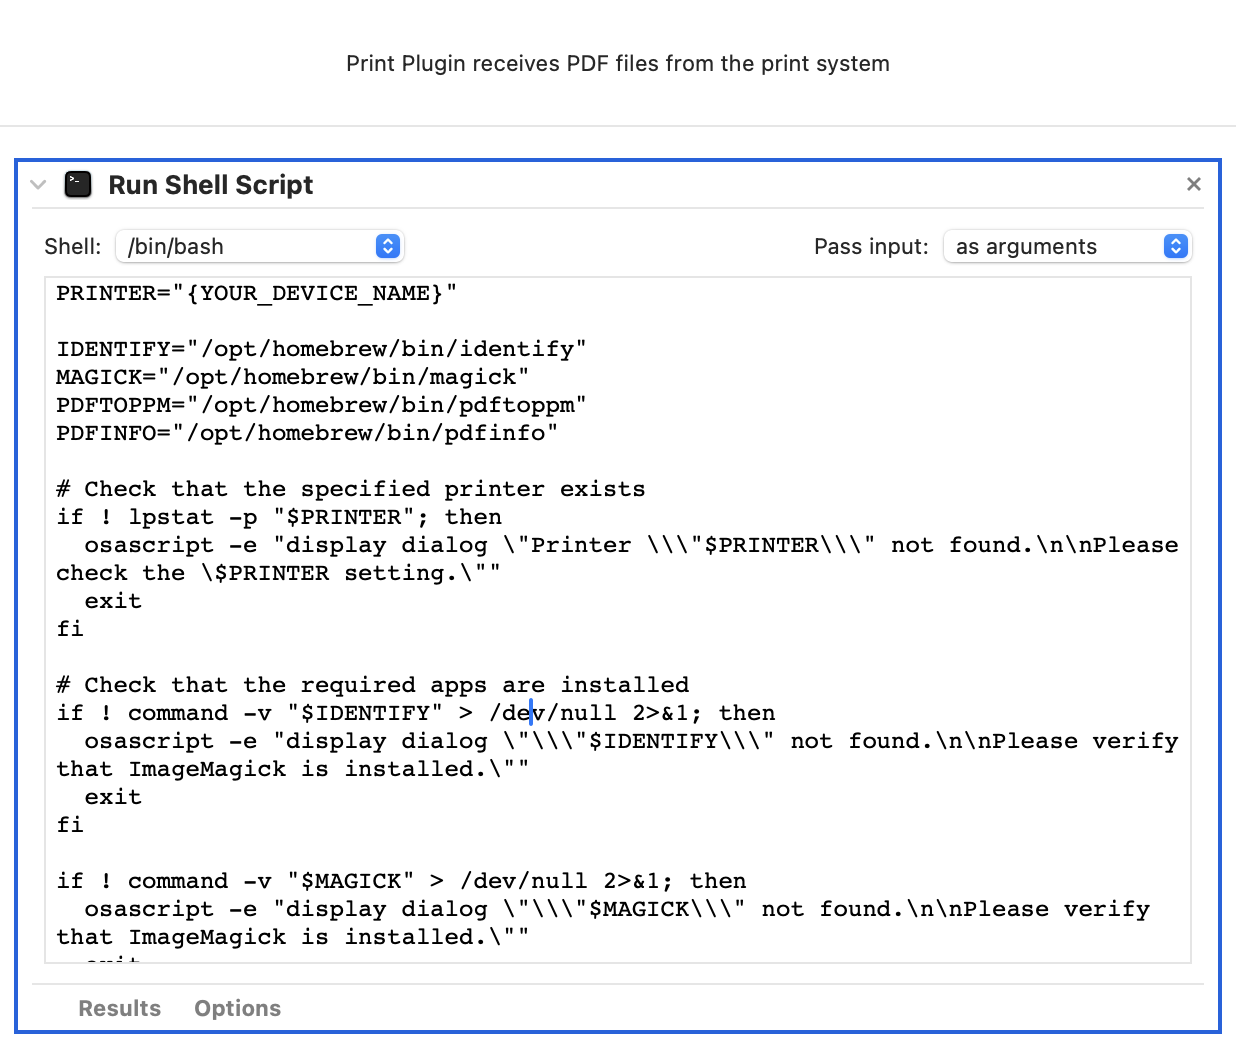
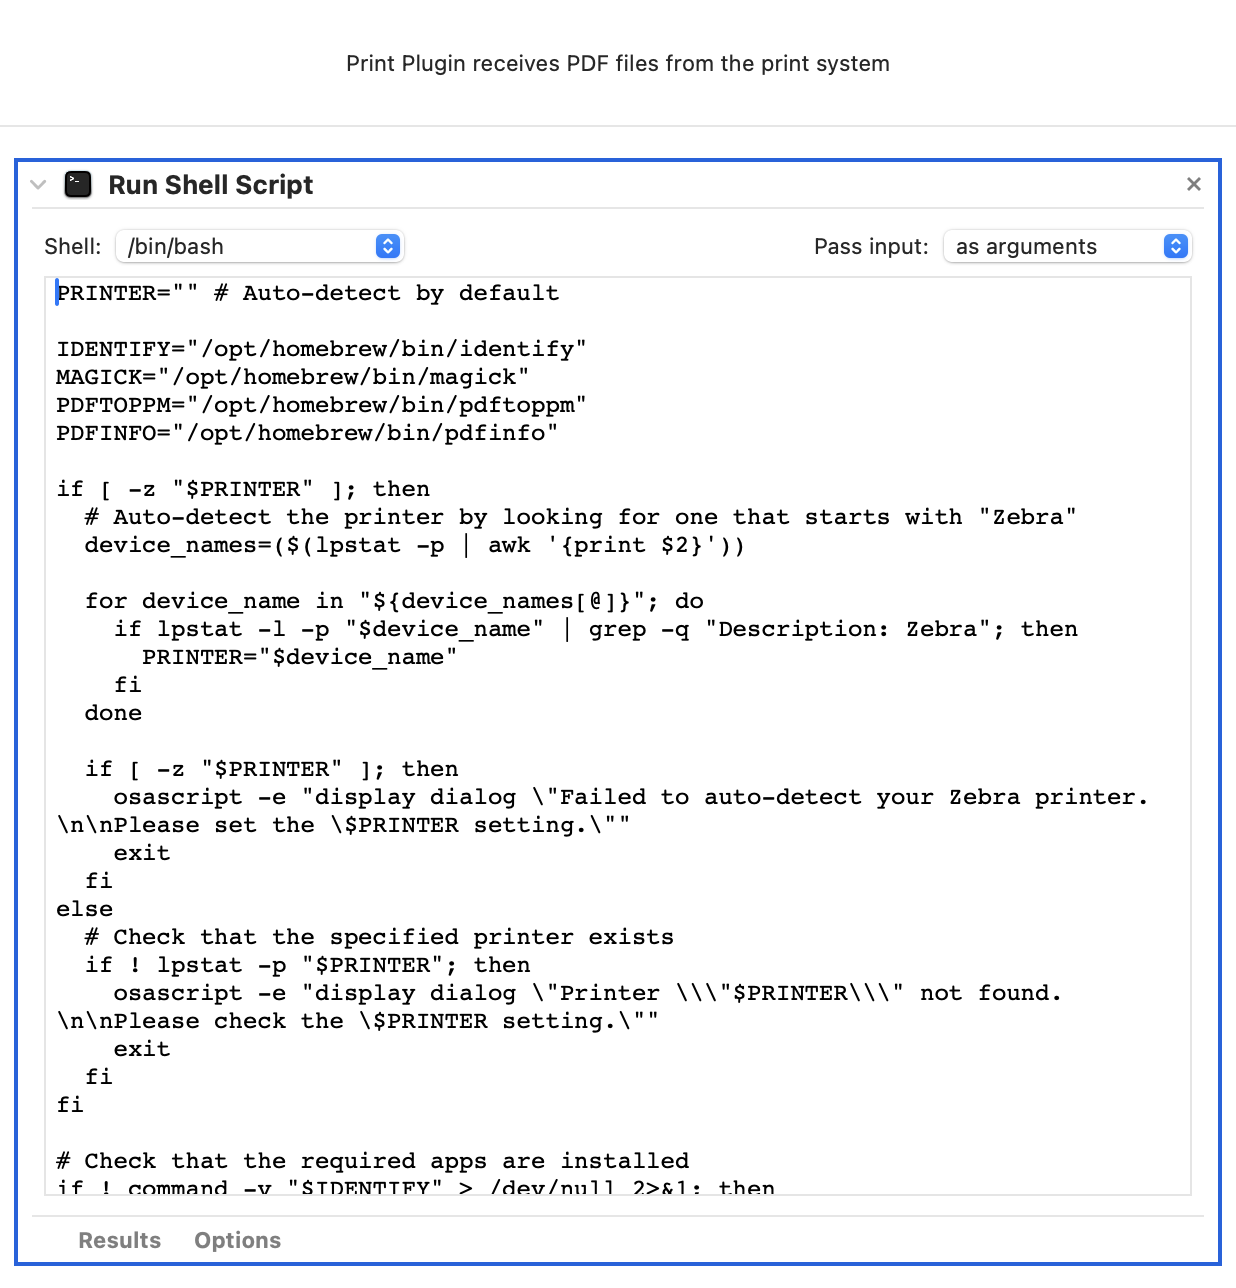
Added support for auto-detecting the Zebra printer and added troubleshooting steps.

diff --git a/README.md b/README.md
@@ -26,26 +26,7 @@ In theory, this should work for other Zebra thermal printers, but I have only te
 
   ![Browse in Finder](images/install-finder-browse.png)
 
-3. Drag `Print Label.workflow` (extension may be hidden) into the `PDF Services` folder.
-4. Get the Device Name for your Zebra printer.
-
-  - Go to System Settings > Printers & Scanners
-  - Click on your Zebra printer.
-
-  ![Zebra printer dialog](images/install-system-settings-printer.png)
-  
-  - Click "Options & Supplies"
-  - Copy the "Device Name" value
-
-  ![Zebra printer device name](images/install-system-settings-printer-options.png)
-
-5. Go back to the `PDF Services` folder.
-6. Double-click on `Print Label.workflow` to open it in Automator.
-7. At the top, replace `{YOUR_DEVICE_NAME}` with the device name you just copied.
-
-  ![Paste device name](images/install-automator-device-name.png)
-
-8. Save the workflow. You are all set!
+3. Drag `Print Label.workflow` (extension may be hidden) into the `PDF Services` folder. You are all set!
 
 ## Usage
 
@@ -57,3 +38,93 @@ In theory, this should work for other Zebra thermal printers, but I have only te
   ![Print dialog](images/usage-print-dialog.png)
 6. From the dropdown on the bottom-left, click "Print Label".
   ![Print dialog menu](images/usage-print-dialog-menu.png)
+
+## Troubleshooting
+
+### Error: "Failed to auto-detect your Zebra printer."
+
+The workflow is trying to find a printer name that starts with "Zebra" and doesn't find it. There could be two reasons for this:
+
+1. The driver for your Zebra printer is not installed. See: [Install CUPS Driver for Zebra Printer in Mac OS](https://supportcommunity.zebra.com/s/article/Install-CUPS-driver-for-Zebra-Printer-in-Mac-OS)
+2. The name of your Zebra printer does not start with "Zebra". You have two options here:
+
+  a. Rename your Zebra printer so that it starts with "Zebra". See [Renaming your printer](TODO).
+  
+  b. Set the `PRINTER` value in the workflow with your Zebra printer's device name. See [Editing the `PRINTER` value](TODO).
+
+### The workflow prints to the wrong Zebra printer
+
+The workflow is trying to find a printer name that starts with "Zebra" and it is picking the wrong one because there are multiple. You have a few options in this case:
+
+a. Rename the other printer so that the one you want to print to is the only one with a name that starts with "Zebra". See [Renaming your printer](TODO).
+
+b. If only one device you want to print to, set the `PRINTER` value in the workflow with that Zebra printer's device name. See [Editing the `PRINTER` value](TODO).
+
+c. If you want to print to multiple Zebra printers, make a copy of `Print Label.workflow`, one for each printer, and set the `PRINTER` value for each copy with the corresponding Zebra printer's device name. Make sure that you set the workflow to an appropriate filename so that you know which workflow corresponds to which printer. See [Editing the `PRINTER` value](TODO).
+
+### Error: "Printer "{YOUR-PRINTER-NAME}" not found."
+
+The `PRINTER` value at the top of the workflow was not set to the correct printer device name. Make sure that you have the correct device name value. See [Getting the device name for your printer](TODO) and [Editing the `PRINTER` value](TODO).
+
+### Error: "Failed to determine the printer DPI!"
+
+The workflow tried to read the printer options and didn't find a matching "Resolution" option. If this happens, I would appreciate feedback. Drop a comment in the [Discussions](https://github.com/john-stephens/zebra-mac-label-automator/discussions) section with the output of `lpstat -p | awk '{print $2}' | xargs -t -n1 -I {} lpoptions -p {} -l`.
+
+### Error: "Failed to determine the printer media!"
+
+The workflow tried to determine the appropriate media value based on the page size, but couldn't find a match for your printer. If this happens, I would appreciate feedback. Drop a comment in the [Discussions](https://github.com/john-stephens/zebra-mac-label-automator/discussions) section with the output of `lpstat -p | awk '{print $2}' | xargs -t -n1 -I {} lpoptions -p {} -l
+`.
+
+### Error: ""identify" not found" or ""magick" not found"
+
+This will happen if `identify` or `magick` are not found. This could either be because ImageMagick is not installed or was not installed with [Homebrew](https://brew.sh). You have two options in this case:
+
+a. Install ImageMagick with [Homebrew](https://brew.sh).
+
+b. Correct the path for `identify` or `magick` at the top of `Print Label.workflow`.
+
+### Error: ""pdftoppm" not found" or ""pdfinfo" not found"
+
+This will happen if `pdftoppm` or `pdfinfo` are not found. This could either be because Poppler is not installed or was not installed with [Homebrew](https://brew.sh). You have two options in this case:
+
+a. Install Poppler with [Homebrew](https://brew.sh).
+
+b. Correct the path for `pdftoppm` or `pdfinfo` at the top of `Print Label.workflow`.
+
+## Reference
+
+### Getting the device name for your printer
+
+1. Go to System Settings > Printers & Scanners
+2. Click on your Zebra printer.
+
+  ![Zebra printer dialog](images/reference-system-settings-printer.png)
+  
+3. Click "Options & Supplies"
+4. Copy the "Device Name" value
+
+  ![Zebra printer device name](images/reference-system-settings-printer-options.png)
+  
+### Editing the `PRINTER` value
+
+1. Browse to the `PDF Services` folder.
+
+  - Click on the Finder app
+  - Click Go > Go to Folder... (⇧ ⌘ G)
+  - Enter "~/Library/PDF Services" and press Enter
+
+2. Double-click on `Print Label.workflow` (extension may be hidden) to open it in Automator.
+4. At the top, fill in your device name as the value for `PRINTER`. See [Getting the device name for your printer](TODO).
+
+  ![Paste device name](images/reference-automator-device-name.png)
+
+5. Save the workflow.
+
+### Renaming your printer
+
+  - Go to System Settings > Printers & Scanners
+  - Click on your printer.
+  - Change the name of your printer by typing in the "Name" field.
+  - Click "Done"
+
+  ![Rename printer](images/reference-rename-printer.png)
